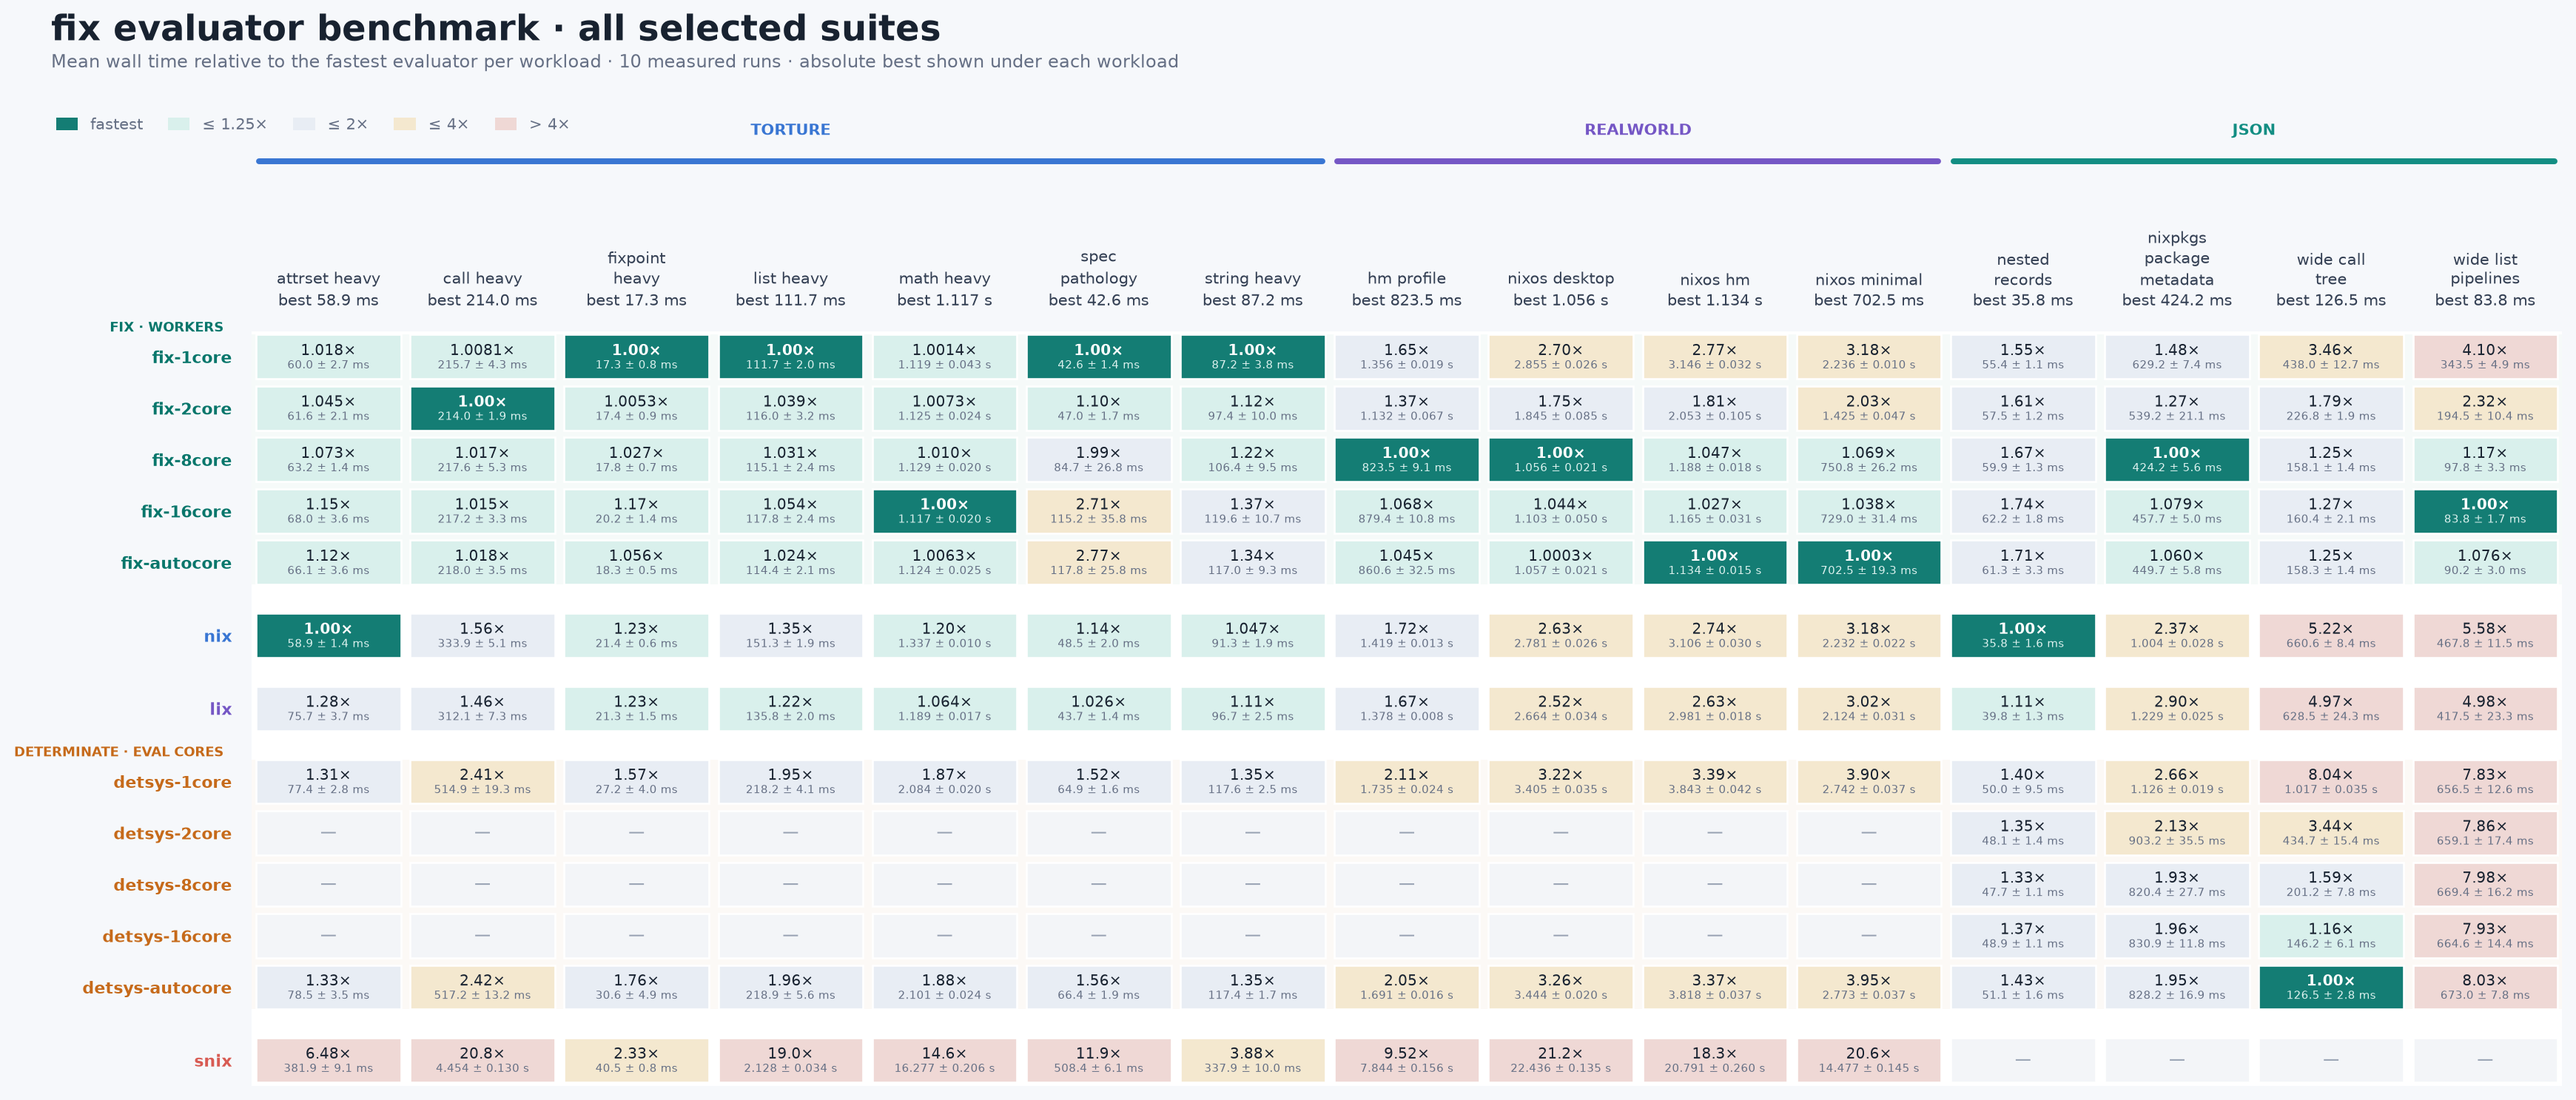
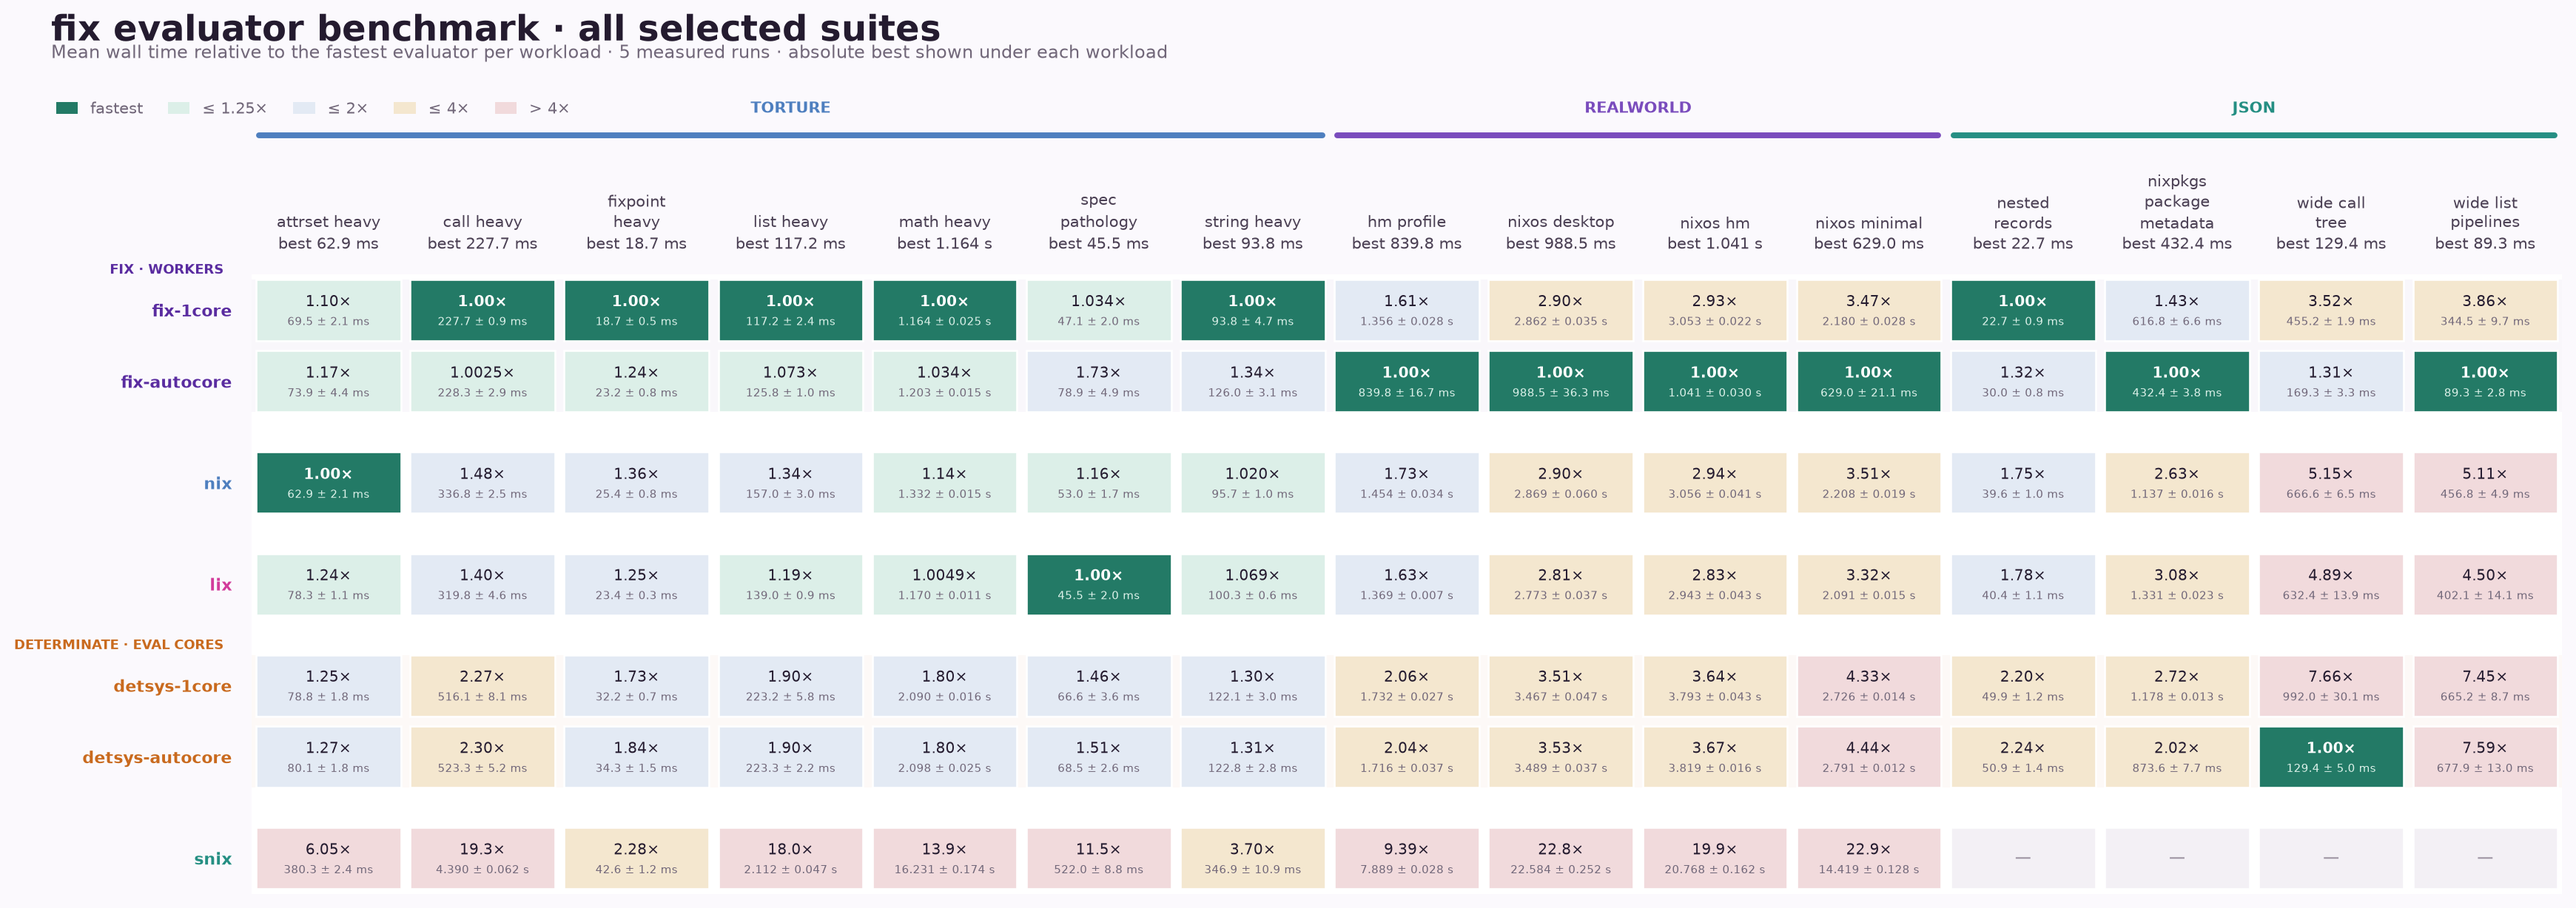
ci: fix cross-platform checks and refresh benchmarks

diff --git a/README.md b/README.md
@@ -227,6 +227,193 @@ workloads. Each cell is relative to the fastest evaluator for that workload;
 
 ![fix evaluator benchmark](demo/benchmark.png)
 
+<details>
+<summary>Full benchmark tables</summary>
+
+### Torture
+
+#### `attrset-heavy`
+
+| Command | Mean [ms] | Min [ms] | Max [ms] | Relative |
+|:---|---:|---:|---:|---:|
+| `fix-1core` | 69.5 ± 2.1 | 66.7 | 71.8 | 1.10 ± 0.05 |
+| `fix-autocore` | 73.9 ± 4.4 | 69.3 | 78.4 | 1.17 ± 0.08 |
+| `nix` | 62.9 ± 2.1 | 61.4 | 66.4 | 1.00 |
+| `lix` | 78.3 ± 1.1 | 76.4 | 79.0 | 1.24 ± 0.05 |
+| `detsys-1core` | 78.8 ± 1.8 | 76.9 | 81.8 | 1.25 ± 0.05 |
+| `detsys-autocore` | 80.1 ± 1.8 | 78.2 | 82.4 | 1.27 ± 0.05 |
+| `snix` | 380.3 ± 2.4 | 376.8 | 383.7 | 6.05 ± 0.21 |
+
+#### `call-heavy`
+
+| Command | Mean [ms] | Min [ms] | Max [ms] | Relative |
+|:---|---:|---:|---:|---:|
+| `fix-1core` | 227.7 ± 0.9 | 226.7 | 228.9 | 1.00 |
+| `fix-autocore` | 228.3 ± 2.9 | 224.4 | 231.8 | 1.00 ± 0.01 |
+| `nix` | 336.8 ± 2.5 | 334.7 | 339.6 | 1.48 ± 0.01 |
+| `lix` | 319.8 ± 4.6 | 315.0 | 325.4 | 1.40 ± 0.02 |
+| `detsys-1core` | 516.1 ± 8.1 | 504.5 | 524.4 | 2.27 ± 0.04 |
+| `detsys-autocore` | 523.3 ± 5.2 | 514.8 | 528.7 | 2.30 ± 0.02 |
+| `snix` | 4389.5 ± 62.5 | 4329.8 | 4488.5 | 19.28 ± 0.29 |
+
+#### `fixpoint-heavy`
+
+| Command | Mean [ms] | Min [ms] | Max [ms] | Relative |
+|:---|---:|---:|---:|---:|
+| `fix-1core` | 18.7 ± 0.5 | 18.1 | 19.1 | 1.00 |
+| `fix-autocore` | 23.2 ± 0.8 | 22.4 | 24.4 | 1.24 ± 0.05 |
+| `nix` | 25.4 ± 0.8 | 24.5 | 26.2 | 1.36 ± 0.05 |
+| `lix` | 23.4 ± 0.3 | 23.0 | 23.8 | 1.25 ± 0.04 |
+| `detsys-1core` | 32.2 ± 0.7 | 31.7 | 33.4 | 1.73 ± 0.06 |
+| `detsys-autocore` | 34.3 ± 1.5 | 33.1 | 36.8 | 1.84 ± 0.09 |
+| `snix` | 42.6 ± 1.2 | 41.2 | 44.5 | 2.28 ± 0.09 |
+
+#### `list-heavy`
+
+| Command | Mean [ms] | Min [ms] | Max [ms] | Relative |
+|:---|---:|---:|---:|---:|
+| `fix-1core` | 117.2 ± 2.4 | 115.5 | 121.5 | 1.00 |
+| `fix-autocore` | 125.8 ± 1.0 | 124.7 | 127.1 | 1.07 ± 0.02 |
+| `nix` | 157.0 ± 3.0 | 153.7 | 161.8 | 1.34 ± 0.04 |
+| `lix` | 139.0 ± 0.9 | 137.9 | 139.9 | 1.19 ± 0.03 |
+| `detsys-1core` | 223.2 ± 5.8 | 218.2 | 231.2 | 1.90 ± 0.06 |
+| `detsys-autocore` | 223.3 ± 2.2 | 220.3 | 226.4 | 1.90 ± 0.04 |
+| `snix` | 2111.9 ± 47.1 | 2048.6 | 2168.1 | 18.01 ± 0.55 |
+
+#### `math-heavy`
+
+| Command | Mean [s] | Min [s] | Max [s] | Relative |
+|:---|---:|---:|---:|---:|
+| `fix-1core` | 1.164 ± 0.025 | 1.128 | 1.193 | 1.00 |
+| `fix-autocore` | 1.203 ± 0.015 | 1.187 | 1.222 | 1.03 ± 0.03 |
+| `nix` | 1.332 ± 0.015 | 1.309 | 1.347 | 1.14 ± 0.03 |
+| `lix` | 1.170 ± 0.011 | 1.151 | 1.178 | 1.00 ± 0.02 |
+| `detsys-1core` | 2.090 ± 0.016 | 2.063 | 2.105 | 1.80 ± 0.04 |
+| `detsys-autocore` | 2.098 ± 0.025 | 2.057 | 2.125 | 1.80 ± 0.04 |
+| `snix` | 16.231 ± 0.174 | 16.084 | 16.448 | 13.94 ± 0.33 |
+
+#### `spec-pathology`
+
+| Command | Mean [ms] | Min [ms] | Max [ms] | Relative |
+|:---|---:|---:|---:|---:|
+| `fix-1core` | 47.1 ± 2.0 | 45.4 | 50.3 | 1.03 ± 0.06 |
+| `fix-autocore` | 78.9 ± 4.9 | 73.3 | 85.6 | 1.73 ± 0.13 |
+| `nix` | 53.0 ± 1.7 | 50.6 | 55.0 | 1.16 ± 0.06 |
+| `lix` | 45.5 ± 2.0 | 42.8 | 48.1 | 1.00 |
+| `detsys-1core` | 66.6 ± 3.6 | 63.8 | 72.9 | 1.46 ± 0.10 |
+| `detsys-autocore` | 68.5 ± 2.6 | 64.6 | 71.9 | 1.51 ± 0.09 |
+| `snix` | 522.0 ± 8.8 | 511.6 | 530.7 | 11.47 ± 0.54 |
+
+#### `string-heavy`
+
+| Command | Mean [ms] | Min [ms] | Max [ms] | Relative |
+|:---|---:|---:|---:|---:|
+| `fix-1core` | 93.8 ± 4.7 | 87.3 | 98.8 | 1.00 |
+| `fix-autocore` | 126.0 ± 3.1 | 121.3 | 129.2 | 1.34 ± 0.08 |
+| `nix` | 95.7 ± 1.0 | 94.1 | 96.4 | 1.02 ± 0.05 |
+| `lix` | 100.3 ± 0.6 | 99.6 | 101.1 | 1.07 ± 0.05 |
+| `detsys-1core` | 122.1 ± 3.0 | 119.8 | 127.2 | 1.30 ± 0.07 |
+| `detsys-autocore` | 122.8 ± 2.8 | 119.3 | 127.0 | 1.31 ± 0.07 |
+| `snix` | 346.9 ± 10.9 | 339.2 | 365.2 | 3.70 ± 0.22 |
+
+### Real-world configurations
+
+#### `hm-profile`
+
+| Command | Mean [s] | Min [s] | Max [s] | Relative |
+|:---|---:|---:|---:|---:|
+| `fix-1core` | 1.356 ± 0.028 | 1.334 | 1.395 | 1.61 ± 0.05 |
+| `fix-autocore` | 0.840 ± 0.017 | 0.821 | 0.862 | 1.00 |
+| `nix` | 1.454 ± 0.034 | 1.409 | 1.503 | 1.73 ± 0.05 |
+| `lix` | 1.369 ± 0.007 | 1.358 | 1.376 | 1.63 ± 0.03 |
+| `detsys-1core` | 1.732 ± 0.027 | 1.708 | 1.762 | 2.06 ± 0.05 |
+| `detsys-autocore` | 1.716 ± 0.037 | 1.672 | 1.754 | 2.04 ± 0.06 |
+| `snix` | 7.889 ± 0.028 | 7.860 | 7.925 | 9.39 ± 0.19 |
+
+#### `nixos-desktop`
+
+| Command | Mean [s] | Min [s] | Max [s] | Relative |
+|:---|---:|---:|---:|---:|
+| `fix-1core` | 2.862 ± 0.035 | 2.820 | 2.912 | 2.90 ± 0.11 |
+| `fix-autocore` | 0.988 ± 0.036 | 0.944 | 1.035 | 1.00 |
+| `nix` | 2.869 ± 0.060 | 2.805 | 2.947 | 2.90 ± 0.12 |
+| `lix` | 2.773 ± 0.037 | 2.721 | 2.805 | 2.81 ± 0.11 |
+| `detsys-1core` | 3.467 ± 0.047 | 3.415 | 3.538 | 3.51 ± 0.14 |
+| `detsys-autocore` | 3.489 ± 0.037 | 3.441 | 3.522 | 3.53 ± 0.14 |
+| `snix` | 22.584 ± 0.252 | 22.365 | 22.951 | 22.85 ± 0.88 |
+
+#### `nixos-hm`
+
+| Command | Mean [s] | Min [s] | Max [s] | Relative |
+|:---|---:|---:|---:|---:|
+| `fix-1core` | 3.053 ± 0.022 | 3.029 | 3.084 | 2.93 ± 0.09 |
+| `fix-autocore` | 1.041 ± 0.030 | 1.015 | 1.090 | 1.00 |
+| `nix` | 3.056 ± 0.041 | 3.022 | 3.126 | 2.94 ± 0.09 |
+| `lix` | 2.943 ± 0.043 | 2.900 | 3.010 | 2.83 ± 0.09 |
+| `detsys-1core` | 3.793 ± 0.043 | 3.715 | 3.820 | 3.64 ± 0.11 |
+| `detsys-autocore` | 3.819 ± 0.016 | 3.803 | 3.842 | 3.67 ± 0.11 |
+| `snix` | 20.768 ± 0.162 | 20.576 | 20.967 | 19.95 ± 0.60 |
+
+#### `nixos-minimal`
+
+| Command | Mean [s] | Min [s] | Max [s] | Relative |
+|:---|---:|---:|---:|---:|
+| `fix-1core` | 2.180 ± 0.028 | 2.151 | 2.223 | 3.47 ± 0.12 |
+| `fix-autocore` | 0.629 ± 0.021 | 0.595 | 0.649 | 1.00 |
+| `nix` | 2.208 ± 0.019 | 2.180 | 2.230 | 3.51 ± 0.12 |
+| `lix` | 2.091 ± 0.015 | 2.078 | 2.111 | 3.32 ± 0.11 |
+| `detsys-1core` | 2.726 ± 0.014 | 2.708 | 2.748 | 4.33 ± 0.15 |
+| `detsys-autocore` | 2.791 ± 0.012 | 2.771 | 2.804 | 4.44 ± 0.15 |
+| `snix` | 14.419 ± 0.128 | 14.232 | 14.591 | 22.93 ± 0.79 |
+
+### JSON
+
+#### `nested-records`
+
+| Command | Mean [ms] | Min [ms] | Max [ms] | Relative |
+|:---|---:|---:|---:|---:|
+| `fix-1core` | 22.7 ± 0.9 | 22.0 | 24.2 | 1.00 |
+| `fix-autocore` | 30.0 ± 0.8 | 28.8 | 30.8 | 1.32 ± 0.06 |
+| `nix` | 39.6 ± 1.0 | 38.5 | 41.0 | 1.75 ± 0.08 |
+| `lix` | 40.4 ± 1.1 | 38.6 | 41.4 | 1.78 ± 0.09 |
+| `detsys-1core` | 49.9 ± 1.2 | 48.2 | 51.3 | 2.20 ± 0.10 |
+| `detsys-autocore` | 50.9 ± 1.4 | 49.1 | 52.6 | 2.24 ± 0.11 |
+
+#### `nixpkgs-package-metadata`
+
+| Command | Mean [ms] | Min [ms] | Max [ms] | Relative |
+|:---|---:|---:|---:|---:|
+| `fix-1core` | 616.8 ± 6.6 | 609.4 | 626.9 | 1.43 ± 0.02 |
+| `fix-autocore` | 432.4 ± 3.8 | 427.1 | 437.2 | 1.00 |
+| `nix` | 1136.6 ± 16.0 | 1120.5 | 1162.3 | 2.63 ± 0.04 |
+| `lix` | 1331.2 ± 23.1 | 1300.1 | 1364.8 | 3.08 ± 0.06 |
+| `detsys-1core` | 1178.0 ± 12.9 | 1157.7 | 1193.2 | 2.72 ± 0.04 |
+| `detsys-autocore` | 873.6 ± 7.7 | 866.5 | 884.3 | 2.02 ± 0.03 |
+
+#### `wide-call-tree`
+
+| Command | Mean [ms] | Min [ms] | Max [ms] | Relative |
+|:---|---:|---:|---:|---:|
+| `fix-1core` | 455.2 ± 1.9 | 452.3 | 457.0 | 3.52 ± 0.14 |
+| `fix-autocore` | 169.3 ± 3.3 | 166.5 | 174.9 | 1.31 ± 0.06 |
+| `nix` | 666.6 ± 6.5 | 660.8 | 677.4 | 5.15 ± 0.20 |
+| `lix` | 632.4 ± 13.9 | 620.1 | 655.8 | 4.89 ± 0.22 |
+| `detsys-1core` | 992.0 ± 30.1 | 953.1 | 1026.4 | 7.66 ± 0.37 |
+| `detsys-autocore` | 129.4 ± 5.0 | 125.3 | 137.8 | 1.00 |
+
+#### `wide-list-pipelines`
+
+| Command | Mean [ms] | Min [ms] | Max [ms] | Relative |
+|:---|---:|---:|---:|---:|
+| `fix-1core` | 344.5 ± 9.7 | 334.6 | 357.6 | 3.86 ± 0.16 |
+| `fix-autocore` | 89.3 ± 2.8 | 86.5 | 92.7 | 1.00 |
+| `nix` | 456.8 ± 4.9 | 449.7 | 463.1 | 5.11 ± 0.17 |
+| `lix` | 402.1 ± 14.1 | 389.4 | 423.3 | 4.50 ± 0.21 |
+| `detsys-1core` | 665.2 ± 8.7 | 653.0 | 673.9 | 7.45 ± 0.25 |
+| `detsys-autocore` | 677.9 ± 13.0 | 669.9 | 700.9 | 7.59 ± 0.28 |
+
+</details>
+
 These results are point-in-time measurements from pinned inputs, not a claim
 that `fix` wins every workload. The timing harness uses Hyperfine, with separate
 warmup and measured runs and optional cache reclamation between runs.
